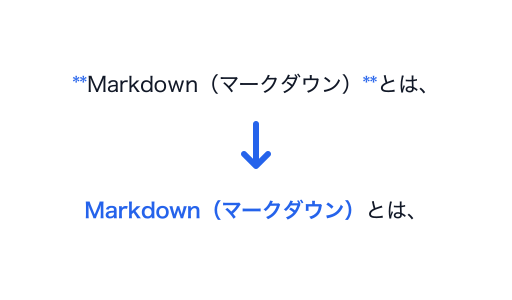
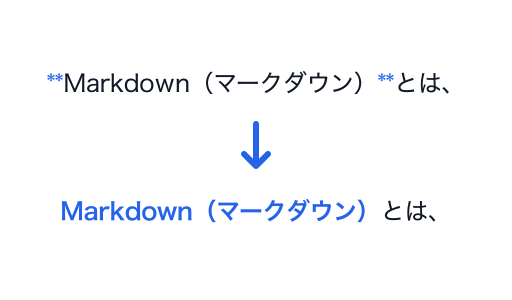
Fix thumbnail

Changed region(s): [[0.0938, 0.66, 0.8438, 0.75], [0.0938, 0.24, 0.875, 0.33]]

diff --git a/markdown-cjk-fixer/index.html b/markdown-cjk-fixer/index.html
@@ -12,9 +12,15 @@
     <meta property="og:site_name" content="CJK Markdown Fixer" />
     <meta property="og:title" content="Markdownの太字・強調が反映されない問題を修正 | CJK Markdown Fixer" />
     <meta property="og:description" content="日本語文章でアスタリスクが残るMarkdownの強調境界を、ファイルを外部送信せずブラウザ上で補正します。" />
-    <meta name="twitter:card" content="summary" />
+    <meta property="og:image" content="https://45deg.github.io/images/i37.png" />
+    <meta property="og:image:width" content="512" />
+    <meta property="og:image:height" content="300" />
+    <meta property="og:image:alt" content="CJK Markdown Fixer の修正前後" />
+    <meta name="twitter:card" content="summary_large_image" />
     <meta name="twitter:title" content="Markdownの太字・強調が反映されない問題を修正" />
     <meta name="twitter:description" content="日本語文章でアスタリスクが残るMarkdownの強調境界をブラウザ上で補正します。" />
+    <meta name="twitter:image" content="https://45deg.github.io/images/i37.png" />
+    <meta name="twitter:image:alt" content="CJK Markdown Fixer の修正前後" />
     <meta name="theme-color" content="#f7f6f1" />
     <title>Markdownの太字・強調が反映されない問題を修正 | CJK Markdown Fixer</title>
     <script type="module" crossorigin src="./assets/index-ByISpt1R.js"></script>